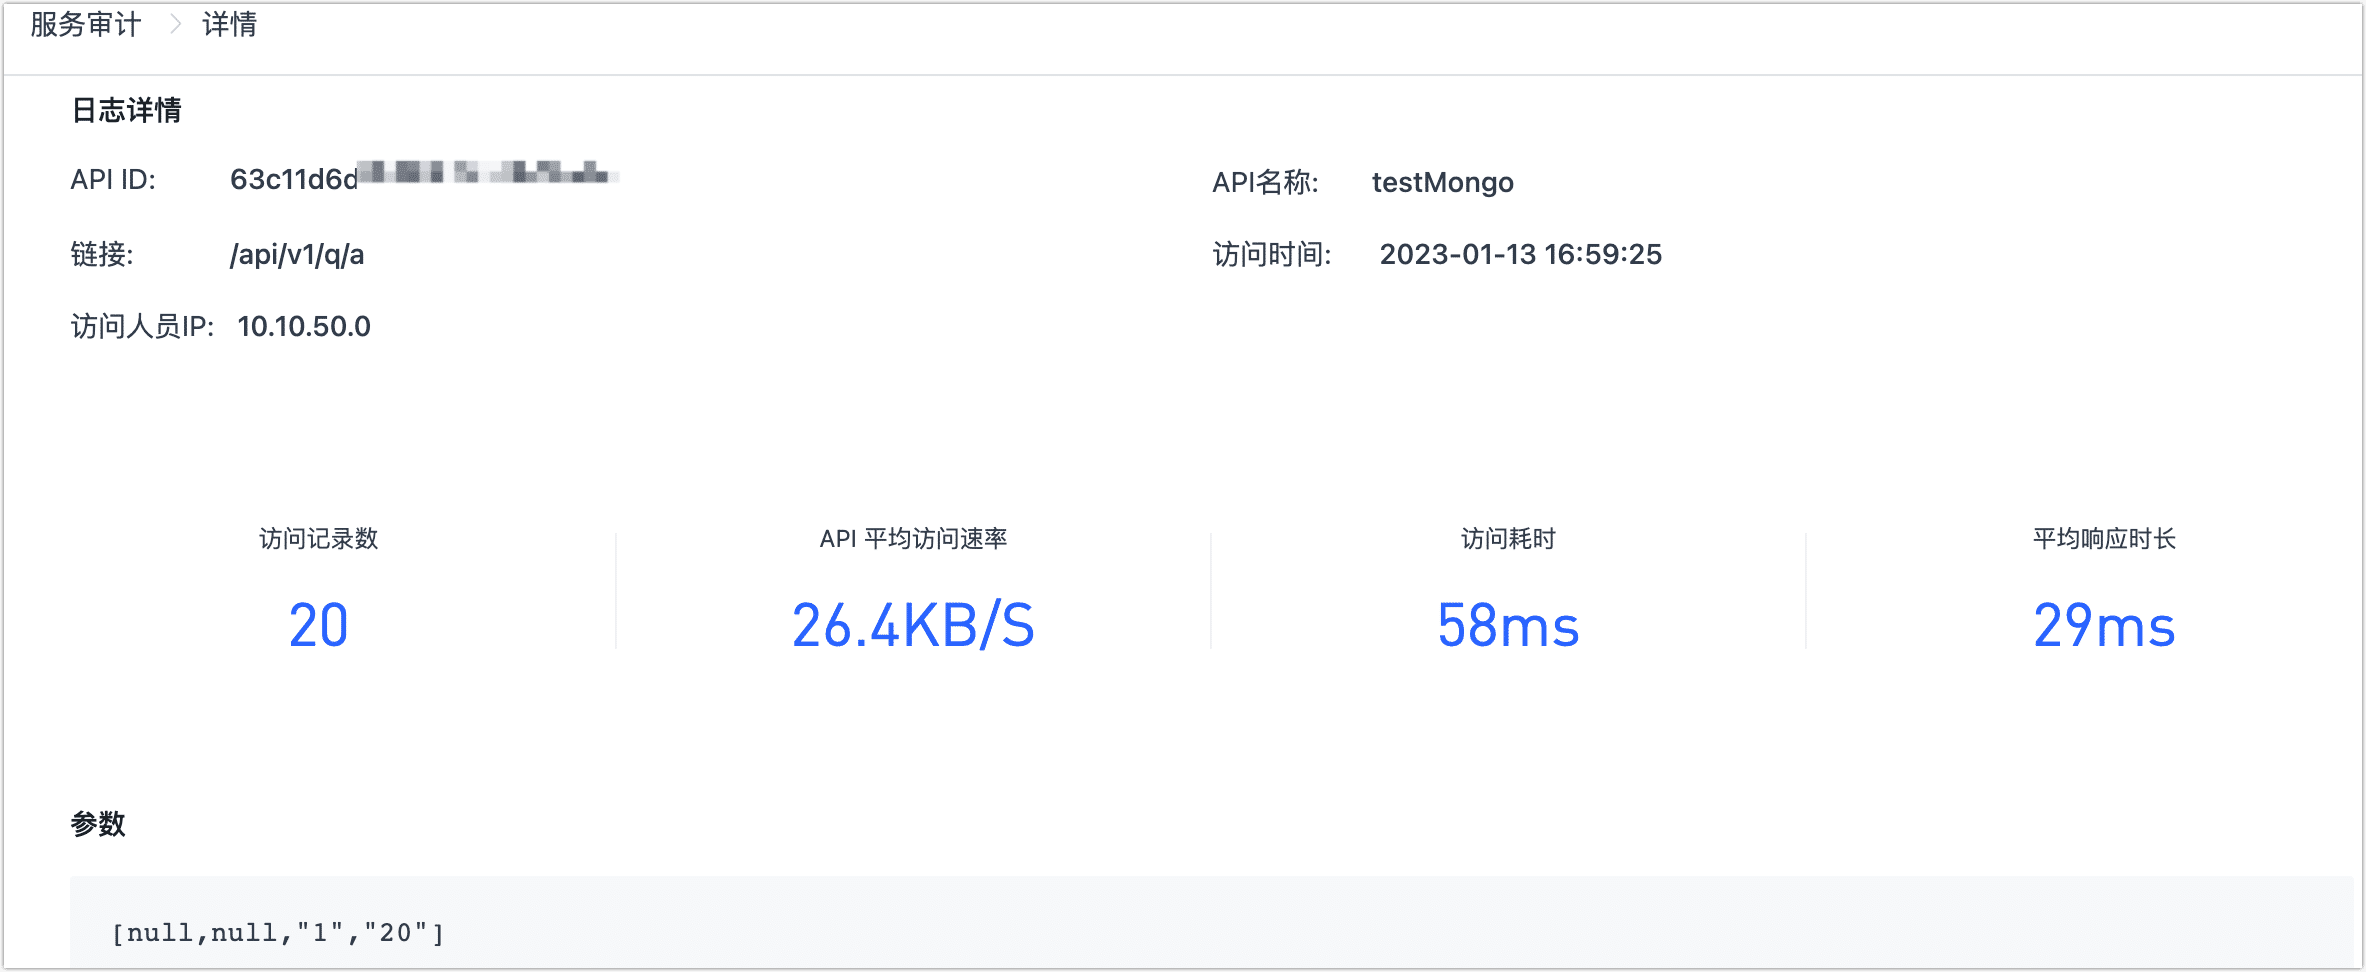
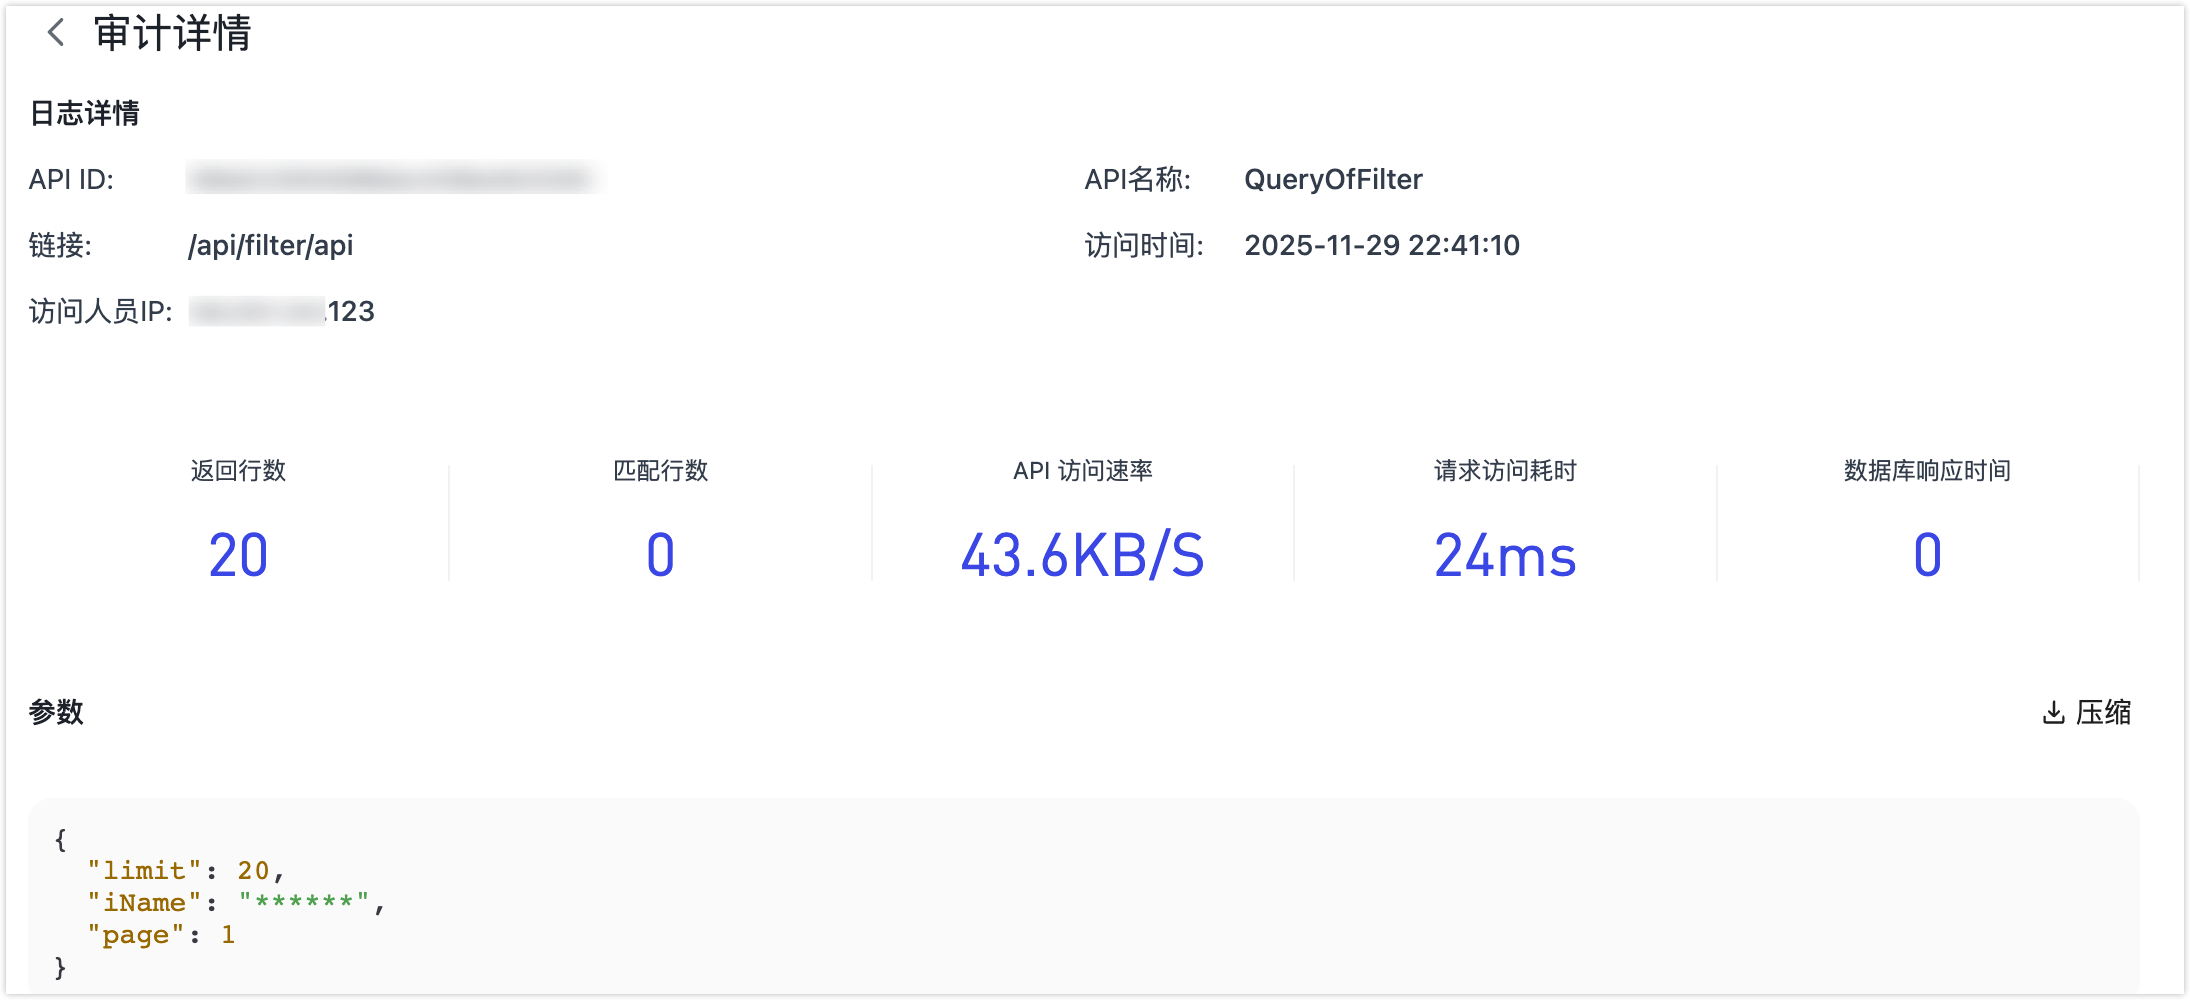
Release 4.11.0 Part 2

diff --git a/docs/release-notes/release-notes-on-prem.md b/docs/release-notes/release-notes-on-prem.md
@@ -21,18 +21,17 @@ import TabItem from '@theme/TabItem';
 
 ### 新增功能
 
-- 发布 Db2 for i 连接器，支持主流数据源的同步与写入能力
-- [增量数据校验功能](../user-guide/incremental-check.md)支持批量手动校验与修复，并支持设置忽略指定表不执行校验，满足定制化需求
-- [主从合并节点](../user-guide/data-development/process-node.md#主从合并)支持子表缓存的重建能力，用于修复缓存不一致问题
-- 复制任务新增支持 MongoDB 作为目标端的精确一次写能力，确保写入幂等性与一致性
-- Sybase 连接器新增支持精确一次写能力
-- 任务日志新增支持输出 DDL 语句，提升排查与审计可读性
-- 支持对数据源增量读取批次进行自动调整，更好平衡吞吐性能与稳定性
+- 发布 [Db2 for i 连接器](../prerequisites/on-prem-databases/db2-for-i.md)，支持主流数据源的实时同步与数据写入，助力企业级数据集成
+- [增量数据校验功能](../user-guide/incremental-check.md)新增批量手动校验与修复能力，支持灵活配置校验范围，可指定忽略特定表，满足个性化业务需求
+- [主从合并节点](../user-guide/data-development/process-node.md#主从合并)新增子表缓存重建功能，可快速修复缓存数据不一致问题，保障数据质量
+- [数据复制任务](../user-guide/copy-data/create-task.md)扩展精确一次写入能力，新增支持 MongoDB、Sybase 作为目标端，确保数据写入的幂等性和一致性
+- [任务日志](../user-guide/copy-data/monitor-task.md#-任务日志展示区)增强审计功能，新增 DDL 语句输出，便于问题排查和操作审计
+- 智能优化增量读取性能，支持自动调节读取批次大小，动态平衡系统吞吐量与运行稳定性
 
 
 ### 功能优化
 
-- API 审计日志详情优化，新增记录数据库响应时间
+- [API 审计日志](../user-guide/data-service/audit-api.md)详情优化，新增记录数据库响应时间
 - API 性能优化，提升整体请求处理效率
 - API 调试页面结果展示方式优化，提升用户可读性与调试体验
 - 优化主从合并任务进入增量阶段的判断逻辑，提升任务切换准确性

diff --git a/docs/user-guide/copy-data/create-task.md b/docs/user-guide/copy-data/create-task.md
@@ -79,7 +79,9 @@ import Content from '../../reuse-content/_all-features.md';
      * **数据写入模式**：根据业务需求选择。
        * **按事件类型处理**：选择此项后，还需要选择插入、更新、删除事件的数据写入策略。
        * **统计追加写入**：只处理插入事件，丢弃更新和删除事件。
-     * **数据源专属配置**：选择是否保存删除数据。
+     * **增量精确一次写入**：通过在目标端创建缓存表来标记和检查，确保增量数据准确写入一次。当关联字段的值会发生变化时建议开启，开启后可能会影响同步性能。目标数据库需要具备创建表和写入数据的权限。
+     * **时间窗口**：设置增量精确一次写入时缓存数据的保留时间，即去重检查的有效期。系统每天会自动清理过期缓存，时间窗口设置越长，占用的目标数据库存储空间越大。
+     * **数据源专属配置**：选择是否同步索引、保存删除数据、写入确认等级等。
      * **同步分区属性**：打开该功能后，TapData 将自动在目标库中创建分片集合，该功能仅在源和目标库为 MongoDB 集群时生效。     
      
    * **数据模型**   

diff --git a/docs/user-guide/data-service/audit-api.md b/docs/user-guide/data-service/audit-api.md
@@ -17,7 +17,8 @@ import Content from '../../reuse-content/_enterprise-features.md';
 ![](../../images/audit_api_2.png)
 
 - **日志详情**：包括访问的基本信息和各项指标，例如 API 的 ID、名称、访问人员的 IP 地址等。
-- **访问记录数**：该次访问总的记录条数（条）
+- **访问行数**：该次访问总的记录条数。
+- **匹配行数**：该次访问符合条件的记录条数。
 - **API 平均访问速率**：对API单次访问的数据平均传输速率。
-- **访问耗时**：对 API 单次访问的计算耗时统计（单位为秒）。
-- **平均响应时长**：对 API 单次访问每条记录的平均响应时间（单位为毫秒）。
+- **平均响应时长**：对 API 单次访问每条记录的平均响应时间。
+- **数据库响应时长**：对 API 单次访问数据库的响应时间。
